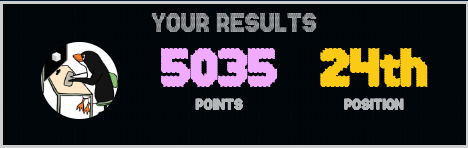
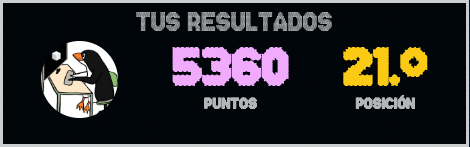
💣 added challenge 19: face the sabotage

diff --git a/src/tests/19.spec.ts b/src/tests/19.spec.ts
@@ -1,0 +1,236 @@
+import { test, expectTypeOf, expect, describe } from 'vitest'
+import { revealSabotage } from '../challenges/19'
+
+describe('Challenge #19', () => {
+  test('Test #01', () => {
+    expectTypeOf(revealSabotage).returns.toEqualTypeOf([])
+  })
+
+  test('Test #02', () => {
+    const received = revealSabotage([
+      ['*', ' ', ' ', ' '],
+      [' ', ' ', '*', ' '],
+      [' ', ' ', ' ', ' '],
+      ['*', ' ', ' ', ' ']
+    ])
+    const expected = [
+      [
+        '*',
+        '2',
+        '1',
+        '1'
+      ],
+      [
+        '1',
+        '2',
+        '*',
+        '1'
+      ],
+      [
+        '1',
+        '2',
+        '1',
+        '1'
+      ],
+      [
+        '*',
+        '1',
+        ' ',
+        ' '
+      ]
+    ]
+    expect(received).toEqual(expected)
+  })
+
+  test('Test #03', () => {
+    const received = revealSabotage([
+      [' ', ' ', ' '],
+      [' ', '*', ' '],
+      [' ', ' ', ' ']
+    ])
+    const expected = [
+      [
+        '1',
+        '1',
+        '1'
+      ],
+      [
+        '1',
+        '*',
+        '1'
+      ],
+      [
+        '1',
+        '1',
+        '1'
+      ]
+    ]
+    expect(received).toEqual(expected)
+  })
+
+  test('Test #04', () => {
+    const received = revealSabotage([
+      ['*', ' ', ' '],
+      [' ', '*', ' '],
+      [' ', ' ', '*']
+    ])
+    const expected = [
+      [
+        '*',
+        '2',
+        '1'
+      ],
+      [
+        '2',
+        '*',
+        '2'
+      ],
+      [
+        '1',
+        '2',
+        '*'
+      ]
+    ]
+    expect(received).toEqual(expected)
+  })
+
+  test('Test #05', () => {
+    const received = revealSabotage([
+      ['*', ' ', ' '],
+      [' ', ' ', ' '],
+      [' ', ' ', ' ']
+    ])
+    const expected = [
+      [
+        '*',
+        '1',
+        ' '
+      ],
+      [
+        '1',
+        '1',
+        ' '
+      ],
+      [
+        ' ',
+        ' ',
+        ' '
+      ]
+    ]
+    expect(received).toEqual(expected)
+  })
+
+  test('Test #06', () => {
+    const received = revealSabotage([
+      ['*', '*', '*'],
+      ['*', ' ', '*'],
+      ['*', '*', '*']
+    ])
+    const expected = [
+      [
+        '*',
+        '*',
+        '*'
+      ],
+      [
+        '*',
+        '8',
+        '*'
+      ],
+      [
+        '*',
+        '*',
+        '*'
+      ]
+    ]
+    expect(received).toEqual(expected)
+  })
+
+  test('Test #07', () => {
+    const received = revealSabotage([
+      ['*', ' ', '*']
+    ])
+    const expected = [
+      [
+        '*',
+        '2',
+        '*'
+      ]
+    ]
+    expect(received).toEqual(expected)
+  })
+
+  test('Test #08', () => {
+    const received = revealSabotage([
+      ['*', ' ', ' '],
+      [' ', ' ', ' '],
+      [' ', ' ', '*']
+    ])
+    const expected = [
+      [
+        '*',
+        '1',
+        ' '
+      ],
+      [
+        '1',
+        '2',
+        '1'
+      ],
+      [
+        ' ',
+        '1',
+        '*'
+      ]
+    ]
+    expect(received).toEqual(expected)
+  })
+
+  test('Test #09', () => {
+    const received = revealSabotage([
+      ['*', ' ', ' ', ' ', ' '],
+      [' ', ' ', ' ', ' ', ' '],
+      [' ', ' ', '*', ' ', ' '],
+      [' ', ' ', ' ', ' ', ' '],
+      [' ', ' ', ' ', ' ', '*']
+    ])
+    const expected = [
+      [
+        '*',
+        '1',
+        ' ',
+        ' ',
+        ' '
+      ],
+      [
+        '1',
+        '2',
+        '1',
+        '1',
+        ' '
+      ],
+      [
+        ' ',
+        '1',
+        '*',
+        '1',
+        ' '
+      ],
+      [
+        ' ',
+        '1',
+        '1',
+        '2',
+        '1'
+      ],
+      [
+        ' ',
+        ' ',
+        ' ',
+        '1',
+        '*'
+      ]
+    ]
+    expect(received).toEqual(expected)
+  })
+})

diff --git a/src/challenges/19.ts b/src/challenges/19.ts
@@ -1,0 +1,17 @@
+export function revealSabotage (store: string[][]): string[][] {
+  const n = store.length
+  const m = store[0].length
+  const st = store
+  for (let i = 0; i < n; ++i) {
+    for (let j = 0; j < m; ++j) {
+      const ij = st[i][j]
+      const w = +(st[i - 1]?.[j - 1] === '*') + +(st[i - 1]?.[j] === '*')
+      const y = +(st[i - 1]?.[j + 1] === '*') + +(st[i]?.[j - 1] === '*')
+      const t = +(st[i]?.[j + 1] === '*') + +(st[i + 1]?.[j - 1] === '*')
+      const k = +(st[i + 1]?.[j] === '*') + +(st[i + 1]?.[j + 1] === '*')
+      const x = `${w + y + t + k}`
+      st[i][j] = [ij, x][+(w + y + t + k > 0) * +(ij === ' ')]
+    }
+  }
+  return store
+}

diff --git a/readme.md b/readme.md
@@ -39,6 +39,7 @@ Para esta versión estaré usando TypeScript, en su versión 5.3.2.
 | 16  | [**Viernes de deploy**](https://adventjs.dev/es/challenges/2023/16)           |     🟢     | [TS](./src/challenges/16.ts) | [SPEC](./src/tests/16.spec.ts) |
 | 17  | [**Optimizando el alquiler**](https://adventjs.dev/es/challenges/2023/17)           |     🟢     | [TS](./src/challenges/17.ts) | [SPEC](./src/tests/17.spec.ts) |
 | 18  | [**El reloj digital**](https://adventjs.dev/es/challenges/2023/18)           |     🔴     | [TS](./src/challenges/18.ts) | [SPEC](./src/tests/18.spec.ts) |
+| 19  | [**Enfrenta el sabotage**](https://adventjs.dev/es/challenges/2023/19)           |     🟠     | [TS](./src/challenges/19.ts) | [SPEC](./src/tests/19.spec.ts) |
 
 ## Herramientas utilizadas 🛠
 
